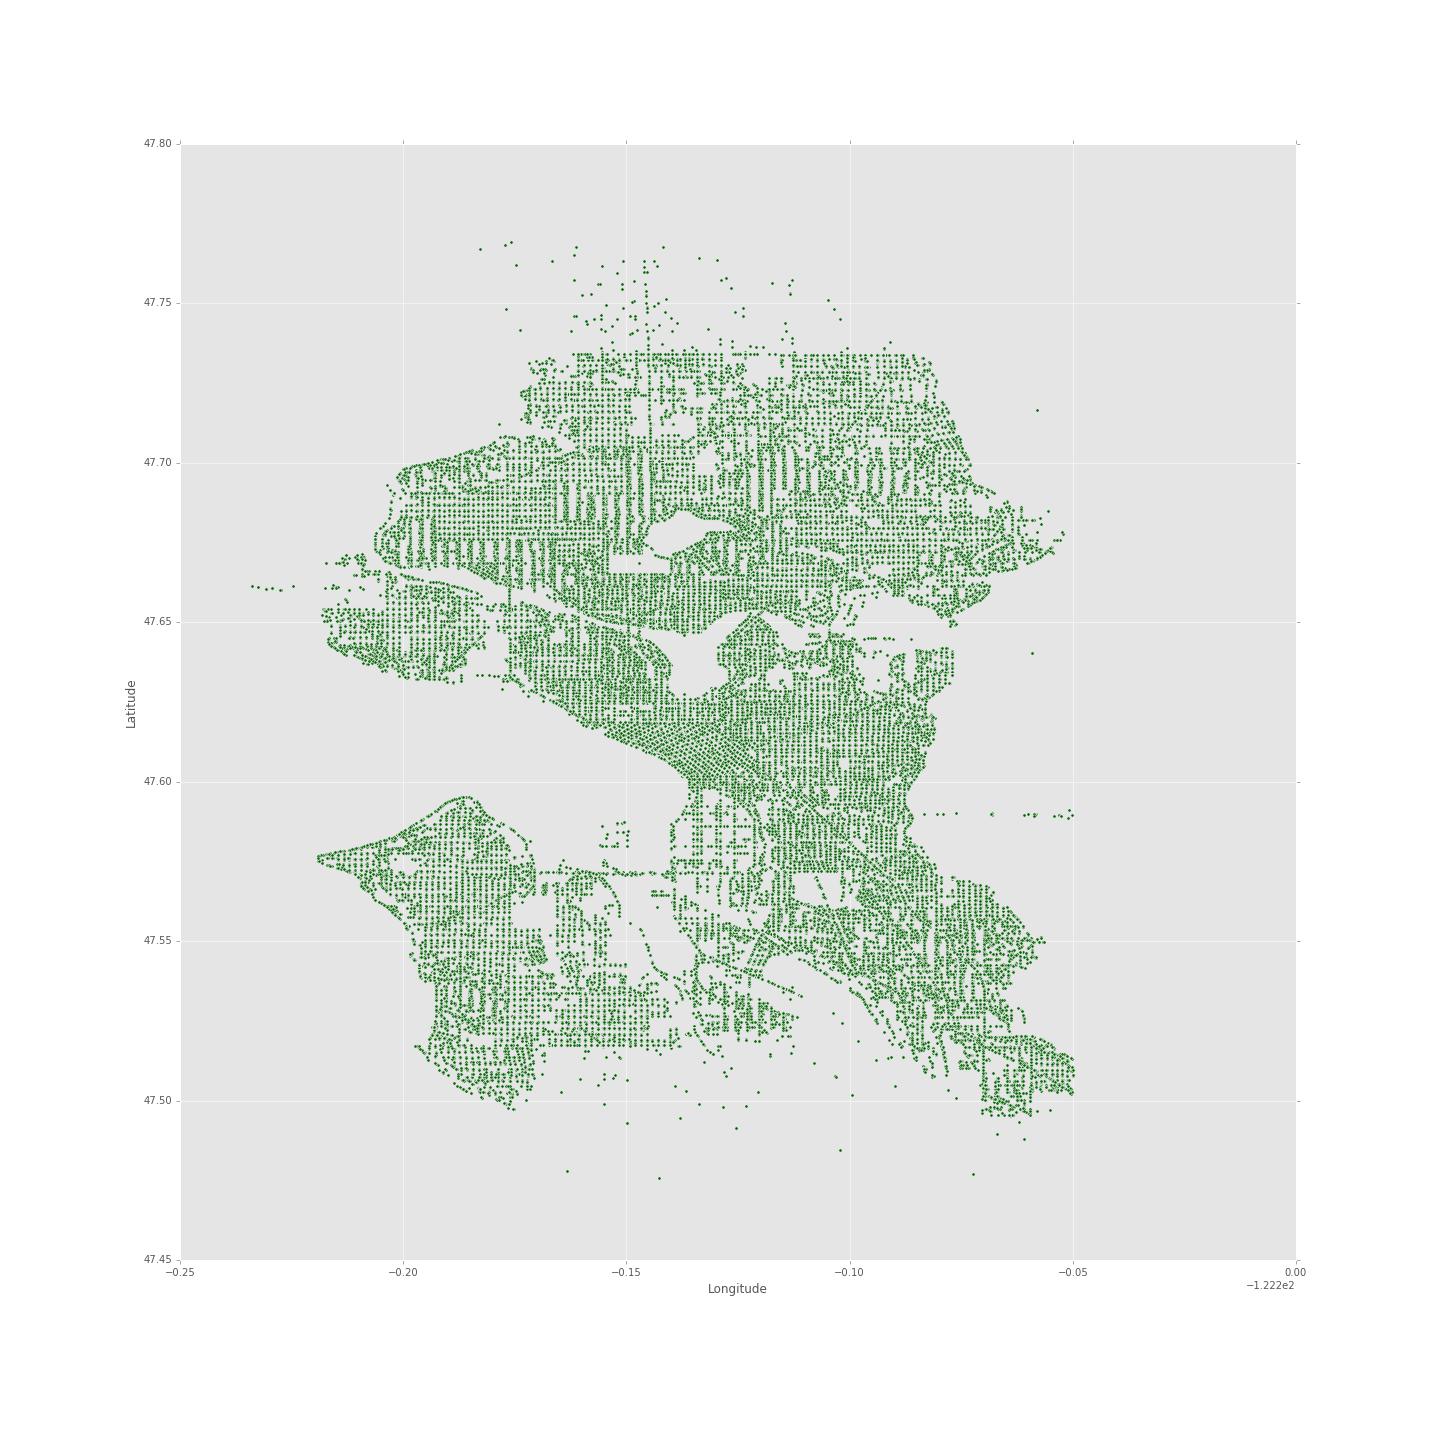
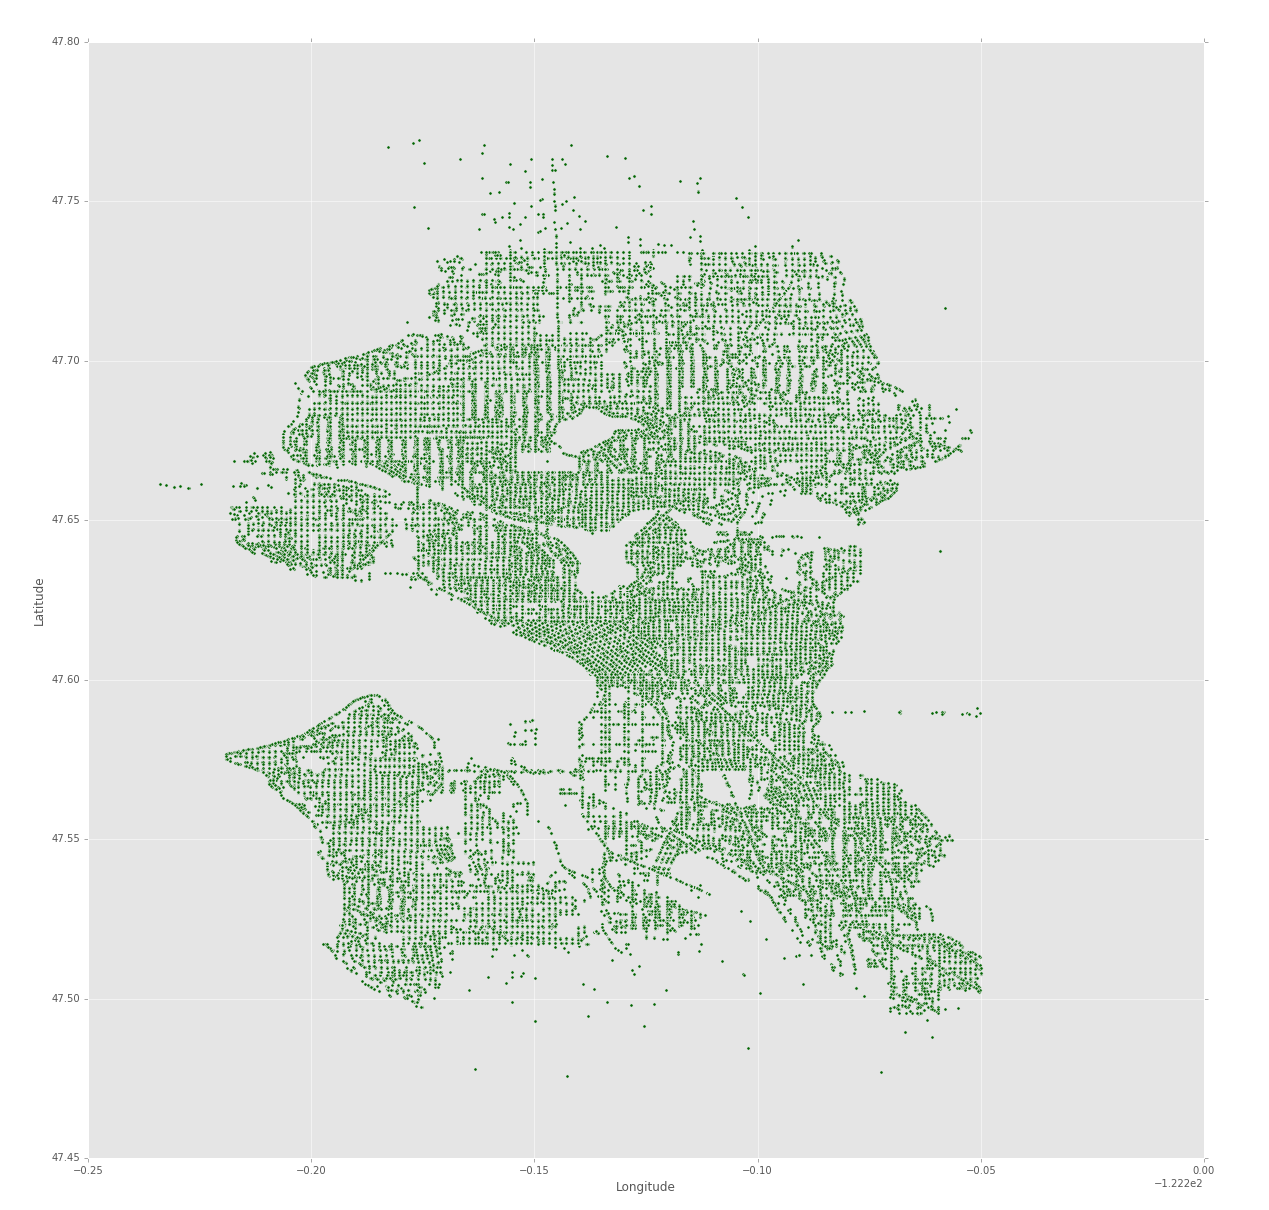
layout changes and plot crops

diff --git a/readme.md b/readme.md
@@ -1,8 +1,11 @@
 # Seattle 911 Plots
 
 <img src="images/seattle_911_hexlog.png" width="800">
+###### Logarithmic heat map of Seattle 911 calls.
+<br>
 <img src="images/seattle_911a.png" width="800">
-
+###### Plot of 550,000 Seattle 911 calls by location.
+<br>
 Plots of public [Seattle 911](https://data.seattle.gov/Public-Safety/Seattle-Police-Department-911-Incident-Response/3k2p-39jp/data) data in the images folder.  Python code can be found in the Jupyter Notebook in the src folder.
 <br>
 <br>
